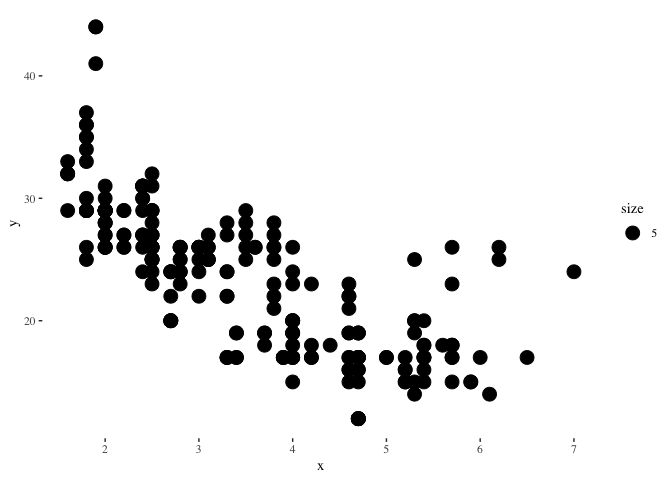
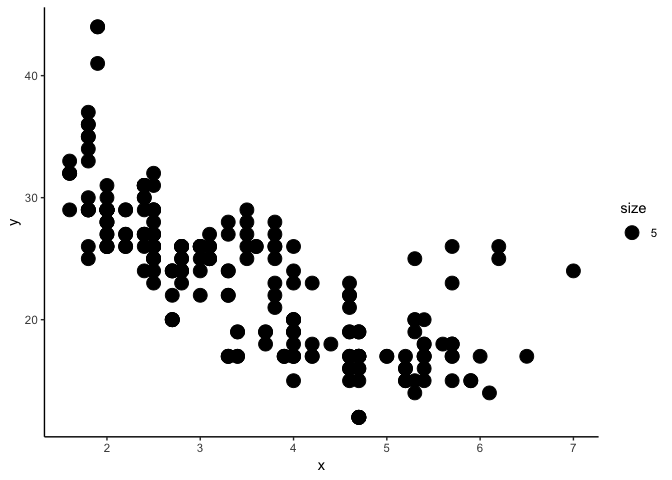
lesson 1 final

diff --git a/docs/Lesson1.html b/docs/Lesson1.html
@@ -610,7 +610,7 @@ y &lt;-<span class="st"> </span>mpg<span class="op">$</span>hwy
 <span class="kw">ggplot</span>(<span class="dt">data =</span> my_data) <span class="op">+</span><span class="st"> </span><span class="kw">geom_point</span>(<span class="dt">mapping =</span> <span class="kw">aes</span>(<span class="dt">x =</span> x, <span class="dt">y =</span> y)) <span class="op">+</span><span class="st"> </span><span class="kw">theme_minimal</span>()</code></pre></div>
 <p><img src="Lesson1_files/figure-html/unnamed-chunk-8-2.png" /><!-- --></p>
 <div class="sourceCode"><pre class="sourceCode r"><code class="sourceCode r"><span class="co"># assign theme to variable</span>
-my_theme &lt;-<span class="st"> </span><span class="kw">theme_tufte</span>()  <span class="co"># assign theme to your own variable </span>
+my_theme &lt;-<span class="st"> </span><span class="kw">theme_classic</span>()  <span class="co"># assign theme to your own variable </span>
 <span class="kw">ggplot</span>(<span class="dt">data =</span> my_data) <span class="op">+</span><span class="st"> </span><span class="kw">geom_point</span>(<span class="dt">mapping =</span> <span class="kw">aes</span>(<span class="dt">x =</span> x, <span class="dt">y =</span> y)) <span class="op">+</span><span class="st"> </span>my_theme  <span class="co"># add variable defining your chosen theme  </span></code></pre></div>
 <p><img src="Lesson1_files/figure-html/unnamed-chunk-8-3.png" /><!-- -->  </p>
 </div>
@@ -681,33 +681,42 @@ my_theme &lt;-<span class="st"> </span><span class="kw">theme_tufte</span>()  <s
 <p>R has 25 built in shapes that are identified by numbers. There are some seeming duplicates: for example, 0, 15, and 22 are all squares. The difference comes from the interaction of the <code>colour</code> and <code>fill</code> aesthetics. The hollow shapes (0–14) have a border determined by <code>colour</code>; the solid shapes (15–18) are filled with <code>colour</code>; the filled shapes (21–24) have a border of <code>colour</code> and are filled with <code>fill</code>.</p>
 </div>
 </div>
-<div id="reading-in-outside-data-airbnb-data" class="section level1">
-<h1>Reading in outside data: AirBnB data</h1>
+<div id="reading-in-outside-data-nyc-airbnb-data" class="section level1">
+<h1>Reading in outside data: NYC AirBnB data</h1>
 <div class="sourceCode"><pre class="sourceCode r"><code class="sourceCode r"><span class="kw">library</span>(tidyverse)  <span class="co"># includes package &#39;readr&#39;</span>
-
 <span class="co"># All Airbnb data (106 cols)</span>
 url &lt;-<span class="st"> &quot;http://data.insideairbnb.com/united-states/ny/new-york-city/2019-06-02/data/listings.csv.gz&quot;</span>
 
-airbnb_full &lt;-<span class="st"> </span><span class="kw">read_csv</span>(url)  <span class="co"># reads in data</span>
-<span class="kw">glimpse</span>(airbnb_full)</code></pre></div>
+nyc_full &lt;-<span class="st"> </span><span class="kw">read_csv</span>(url)  <span class="co"># reads in data</span>
+<span class="kw">glimpse</span>(nyc_full)</code></pre></div>
 <p> </p>
-<p>Using the smaller dataset</p>
-<div class="sourceCode"><pre class="sourceCode r"><code class="sourceCode r">airbnb &lt;-<span class="st"> </span>airbnb_full[airbnb_full<span class="op">$</span>id <span class="op">&lt;</span><span class="st"> </span><span class="fl">1e+06</span>, ]
-<span class="kw">glimpse</span>(airbnb)</code></pre></div>
+<p>Using a smaller dataset</p>
+<div class="sourceCode"><pre class="sourceCode r"><code class="sourceCode r"><span class="co"># smaller csv file (16 cols)</span>
+url &lt;-<span class="st"> &quot;http://data.insideairbnb.com/united-states/ny/new-york-city/2019-06-02/visualisations/listings.csv&quot;</span>
+
+nyc &lt;-<span class="st"> </span><span class="kw">read_csv</span>(url)
+nyc &lt;-<span class="st"> </span>nyc[nyc<span class="op">$</span>id <span class="op">&lt;</span><span class="st"> </span><span class="fl">1e+06</span>, ]  <span class="co"># get smaller subet of data</span>
+<span class="kw">length</span>(nyc<span class="op">$</span>id)  <span class="co"># print length of &#39;id&#39; column</span></code></pre></div>
+<pre><code>[1] 2177</code></pre>
 <p> </p>
 </div>
 <div id="plotting-airbnb-data-with-ggplot" class="section level1">
 <h1>Plotting AirBnB data with ggplot</h1>
 <p>Using the above plotting functions to visualise the AirBnB data</p>
 <div class="sourceCode"><pre class="sourceCode r"><code class="sourceCode r"><span class="co"># plot neighborhood_group vs price</span>
-<span class="kw">names</span>(airbnb)
-
-<span class="kw">head</span>(airbnb<span class="op">$</span>price)
-
-x &lt;-<span class="st"> </span>airbnb<span class="op">$</span>neighbourhood_group_cleansed
-y &lt;-<span class="st"> </span>airbnb<span class="op">$</span>price
-
-<span class="kw">ggplot</span>(<span class="dt">data =</span> airbnb) <span class="op">+</span><span class="st"> </span><span class="kw">geom_point</span>(<span class="dt">mapping =</span> <span class="kw">aes</span>(<span class="dt">x =</span> x, <span class="dt">y =</span> y, <span class="dt">color =</span> y), <span class="dt">shape =</span> <span class="dv">21</span>, <span class="dt">stroke =</span> <span class="dv">1</span>)</code></pre></div>
+<span class="kw">ggplot</span>(<span class="dt">data =</span> nyc) <span class="op">+</span><span class="st"> </span><span class="kw">geom_point</span>(<span class="dt">mapping =</span> <span class="kw">aes</span>(<span class="dt">x =</span> neighbourhood_group, <span class="dt">y =</span> price, <span class="dt">color =</span> neighbourhood_group), 
+    <span class="dt">shape =</span> <span class="dv">21</span>, <span class="dt">stroke =</span> <span class="dv">1</span>) <span class="op">+</span><span class="st"> </span>my_theme</code></pre></div>
+<p><img src="Lesson1_files/figure-html/unnamed-chunk-20-1.png" /><!-- --></p>
+<div class="sourceCode"><pre class="sourceCode r"><code class="sourceCode r"><span class="co"># plot minimum_nights vs price</span>
+<span class="kw">ggplot</span>(<span class="dt">data =</span> nyc) <span class="op">+</span><span class="st"> </span><span class="kw">geom_point</span>(<span class="dt">mapping =</span> <span class="kw">aes</span>(<span class="dt">x =</span> minimum_nights, <span class="dt">y =</span> price, <span class="dt">color =</span> neighbourhood_group), 
+    <span class="dt">shape =</span> <span class="dv">20</span>, <span class="dt">size =</span> <span class="dv">3</span>, <span class="dt">stroke =</span> <span class="dv">1</span>) <span class="op">+</span><span class="st"> </span>my_theme</code></pre></div>
+<p><img src="Lesson1_files/figure-html/unnamed-chunk-21-1.png" /><!-- --></p>
+<div class="sourceCode"><pre class="sourceCode r"><code class="sourceCode r"><span class="co"># availability_365 vs price</span>
+<span class="kw">ggplot</span>(<span class="dt">data =</span> nyc) <span class="op">+</span><span class="st"> </span><span class="kw">geom_point</span>(<span class="dt">mapping =</span> <span class="kw">aes</span>(<span class="dt">x =</span> availability_<span class="dv">365</span>, <span class="dt">y =</span> price, <span class="dt">color =</span> neighbourhood_group), 
+    <span class="dt">shape =</span> <span class="dv">21</span>, <span class="dt">stroke =</span> <span class="dv">1</span>) <span class="op">+</span><span class="st"> </span>my_theme</code></pre></div>
+<div class="sourceCode"><pre class="sourceCode r"><code class="sourceCode r"><span class="co"># plot longitude vs price</span>
+<span class="kw">ggplot</span>(<span class="dt">data =</span> nyc) <span class="op">+</span><span class="st"> </span><span class="kw">geom_point</span>(<span class="dt">mapping =</span> <span class="kw">aes</span>(<span class="dt">x =</span> longitude, <span class="dt">y =</span> price, <span class="dt">color =</span> neighbourhood_group), 
+    <span class="dt">shape =</span> <span class="dv">21</span>, <span class="dt">stroke =</span> <span class="dv">1</span>) <span class="op">+</span><span class="st"> </span>my_theme</code></pre></div>
 <p>Try your own plot using the other variables in the dataset</p>
 <div class="sourceCode"><pre class="sourceCode r"><code class="sourceCode r"><span class="co"># plot neighborhood_group vs price</span>
 <span class="kw">names</span>(airbnb)
@@ -718,9 +727,7 @@ x &lt;-<span class="st"> </span><span class="ot">NULL</span>
 y &lt;-<span class="st"> </span><span class="ot">NULL</span>
 color &lt;-<span class="st"> </span><span class="ot">NULL</span>
 shape &lt;-<span class="st"> </span><span class="ot">NULL</span>
-stroke &lt;-<span class="st"> </span><span class="ot">NULL</span>
-
-<span class="kw">ggplot</span>(<span class="dt">data =</span> my_data) <span class="op">+</span><span class="st"> </span><span class="kw">geom_point</span>(<span class="dt">mapping =</span> <span class="kw">aes</span>(<span class="dt">x =</span> x, <span class="dt">y =</span> y, <span class="dt">color =</span> color), <span class="dt">shape =</span> shape, <span class="dt">stroke =</span> stroke)</code></pre></div>
+stroke &lt;-<span class="st"> </span><span class="ot">NULL</span></code></pre></div>
 <!-- end body -->
 <!-- ____________________________________________________________________________ -->
 <!-- ____________________________________________________________________________ -->

diff --git a/Lesson1.md b/Lesson1.md
@@ -224,7 +224,7 @@ ggplot(data = my_data) + geom_point(mapping = aes(x = x, y = y)) + theme_minimal
 
 ```r
 # assign theme to variable
-my_theme <- theme_tufte()  # assign theme to your own variable 
+my_theme <- theme_classic()  # assign theme to your own variable 
 ggplot(data = my_data) + geom_point(mapping = aes(x = x, y = y)) + my_theme  # add variable defining your chosen theme  
 ```
 
@@ -347,25 +347,32 @@ ggplot(data = my_data) + geom_point(mapping = aes(x = x, y = y, color = class), 
   
 R has 25 built in shapes that are identified by numbers. There are some seeming duplicates: for example, 0, 15, and 22 are all squares. The difference comes from the interaction of the `colour` and `fill` aesthetics. The hollow shapes (0--14) have a border determined by `colour`; the solid shapes (15--18) are filled with `colour`; the filled shapes (21--24) have a border of `colour` and are filled with `fill`.  
 
-# Reading in outside data: AirBnB data  
+# Reading in outside data: NYC AirBnB data  
 
 
 ```r
 library(tidyverse)  # includes package 'readr'
-
 # All Airbnb data (106 cols)
 url <- "http://data.insideairbnb.com/united-states/ny/new-york-city/2019-06-02/data/listings.csv.gz"
 
-airbnb_full <- read_csv(url)  # reads in data
-glimpse(airbnb_full)
+nyc_full <- read_csv(url)  # reads in data
+glimpse(nyc_full)
 ```
 \  
 
-Using the smaller dataset 
+Using a smaller dataset 
 
 ```r
-airbnb <- airbnb_full[airbnb_full$id < 1e+06, ]
-glimpse(airbnb)
+# smaller csv file (16 cols)
+url <- "http://data.insideairbnb.com/united-states/ny/new-york-city/2019-06-02/visualisations/listings.csv"
+
+nyc <- read_csv(url)
+nyc <- nyc[nyc$id < 1e+06, ]  # get smaller subet of data
+length(nyc$id)  # print length of 'id' column
+```
+
+```
+[1] 2177
 ```
 \    
 
@@ -376,15 +383,35 @@ Using the above plotting functions to visualise the AirBnB data
 
 ```r
 # plot neighborhood_group vs price
-names(airbnb)
-
-head(airbnb$price)
-
-x <- airbnb$neighbourhood_group_cleansed
-y <- airbnb$price
-
-ggplot(data = airbnb) + geom_point(mapping = aes(x = x, y = y, color = y), shape = 21, stroke = 1)
+ggplot(data = nyc) + geom_point(mapping = aes(x = neighbourhood_group, y = price, color = neighbourhood_group), 
+    shape = 21, stroke = 1) + my_theme
 ```
+
+![](Lesson1_files/figure-html/unnamed-chunk-20-1.png)<!-- -->
+
+
+```r
+# plot minimum_nights vs price
+ggplot(data = nyc) + geom_point(mapping = aes(x = minimum_nights, y = price, color = neighbourhood_group), 
+    shape = 20, size = 3, stroke = 1) + my_theme
+```
+
+![](Lesson1_files/figure-html/unnamed-chunk-21-1.png)<!-- -->
+
+
+```r
+# availability_365 vs price
+ggplot(data = nyc) + geom_point(mapping = aes(x = availability_365, y = price, color = neighbourhood_group), 
+    shape = 21, stroke = 1) + my_theme
+```
+    
+
+```r
+# plot longitude vs price
+ggplot(data = nyc) + geom_point(mapping = aes(x = longitude, y = price, color = neighbourhood_group), 
+    shape = 21, stroke = 1) + my_theme
+```
+
 
 Try your own plot using the other variables in the dataset    
 
@@ -399,9 +426,9 @@ y <- NULL
 color <- NULL
 shape <- NULL
 stroke <- NULL
-
-ggplot(data = my_data) + geom_point(mapping = aes(x = x, y = y, color = color), shape = shape, stroke = stroke)
 ```
+
+
 
 
 
